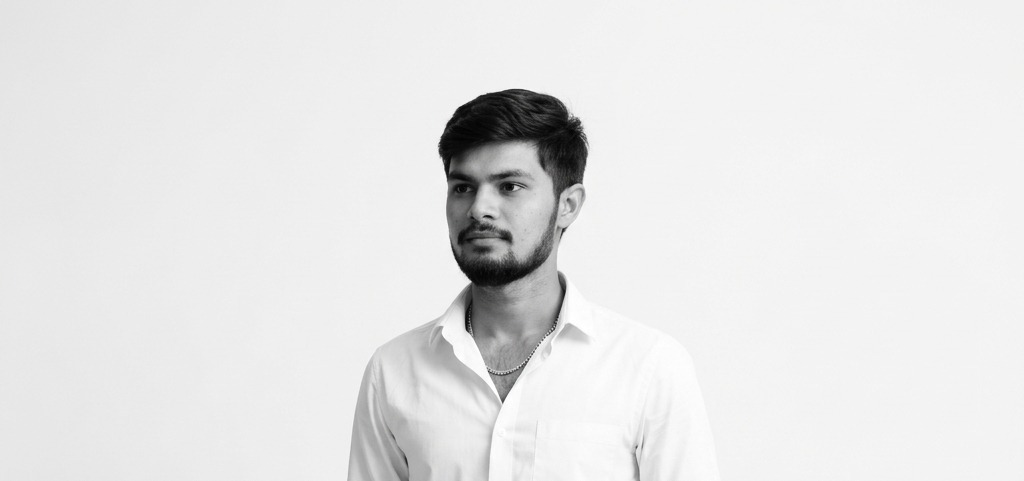
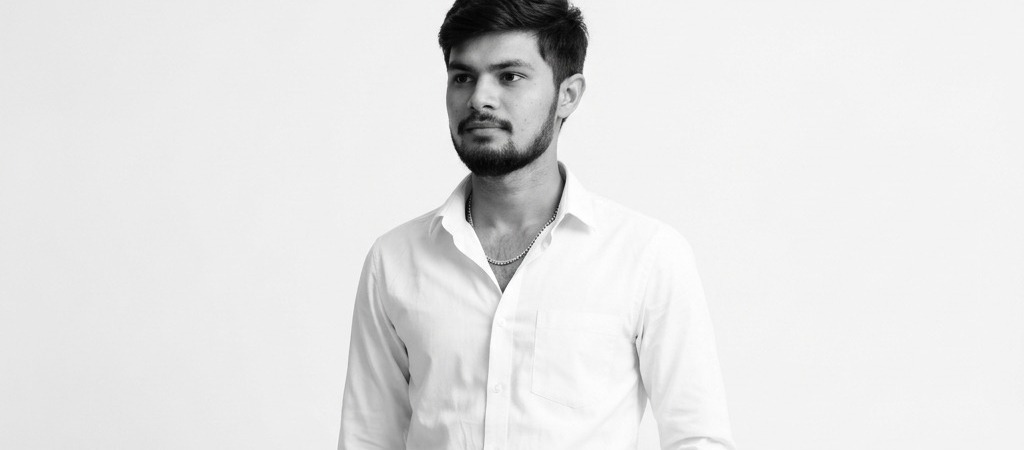
Tighter chest-up crop + right-fill object-position for hero portrait

Changed region(s): [[0.3125, 0.0, 0.5938, 1.0], [0.5938, 0.7156, 0.6562, 0.9022], [0.5938, 0.9022, 0.7188, 1.0]]

diff --git a/blanc.html b/blanc.html
@@ -150,7 +150,7 @@ section{position:relative;width:100%;}
   height:120%;
   top:-10%;
   object-fit:cover;
-  object-position:center top;
+  object-position:40% top;
   filter:grayscale(1) contrast(1.05);
   will-change:transform;
 }

diff --git a/index.html b/index.html
@@ -150,7 +150,7 @@ section{position:relative;width:100%;}
   height:120%;
   top:-10%;
   object-fit:cover;
-  object-position:center top;
+  object-position:40% top;
   filter:grayscale(1) contrast(1.05);
   will-change:transform;
 }
